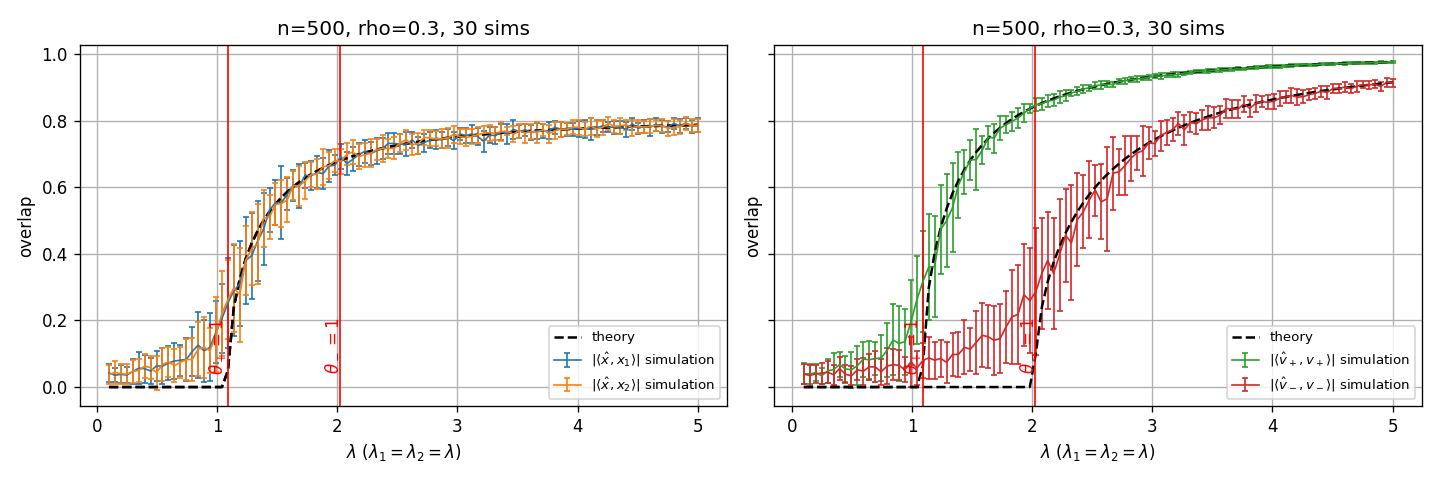
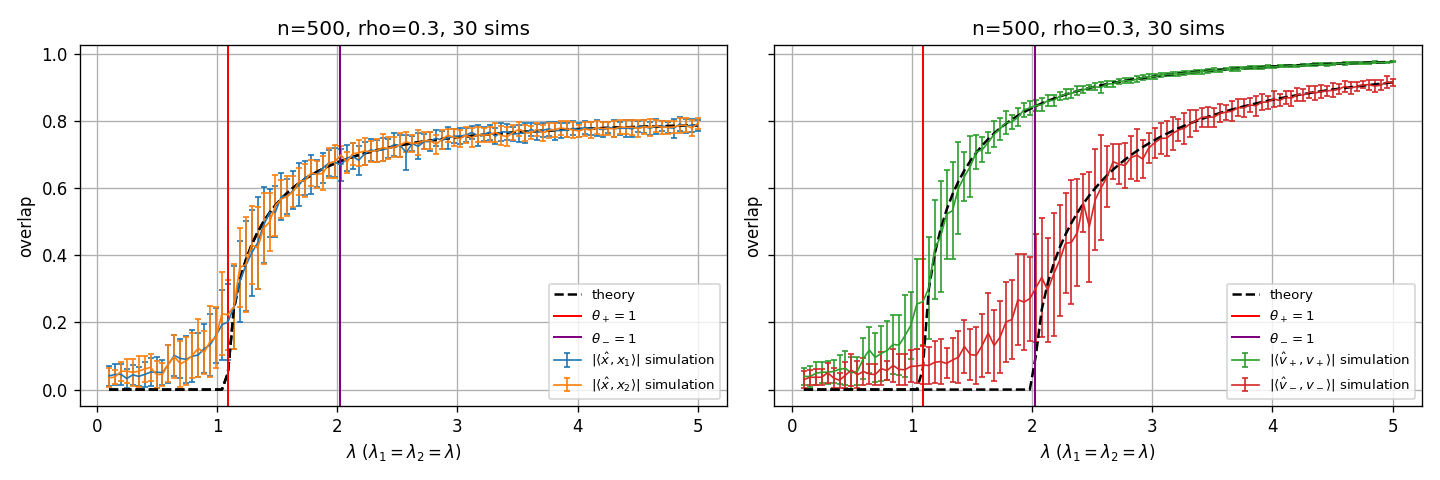
plots

diff --git a/Theory/check_bulk.py b/Theory/check_bulk.py
@@ -119,8 +119,8 @@ def fig_lambda(n=500, rho=0.3, sims=30):
         for k in ks:
             ax.errorbar(lams, mean[:, k], std[:, k], color=f"C{k}", capsize=2, lw=1, label=labels[k] + " simulation")
             ax.plot(lams, th[:, k], "k--", label="theory" if k == ks[0] else None)
-        for tc, name in [(1 / (ALPHA * (1 + rho)), r"$\theta_+=1$"), (1 / (ALPHA * (1 - rho)), r"$\theta_-=1$")]:
-            ax.axvline(tc, color="red", lw=1); ax.text(tc, 0.05, name, color="red", ha="right", rotation=90)
+        ax.axvline(1 / (ALPHA * (1 + rho)), color="red", lw=1.2, label=r"$\theta_+=1$")
+        ax.axvline(1 / (ALPHA * (1 - rho)), color="purple", lw=1.2, label=r"$\theta_-=1$")
         ax.set_xlabel(r"$\lambda$ ($\lambda_1=\lambda_2=\lambda$)"); ax.set_ylabel("overlap")
         ax.set_title(f"n={n}, rho={rho}, {sims} sims"); ax.grid(); ax.legend(fontsize=8, loc="lower right")
     fig.tight_layout(); fig.savefig("overlaps_vs_lambda.png", dpi=120)
@@ -137,8 +137,9 @@ def heat(xname, xs, b_fixed, fname, n=300, reps=4):
     for k, ax in enumerate(axes):
         im = ax.pcolormesh(xs, rhos, Z[:, :, k], cmap="Greys", vmin=0, vmax=1, shading="nearest")
         ax.contour(X, R, tp, levels=[1], colors="red", linewidths=2)
-        ax.set_xlabel(xname); ax.set_ylabel("rho")
-        ax.set_title(rf"$|\langle \hat x, x_{k+1}\rangle|$,  b={b_fixed:.2f}, n={n}  (red: $\theta_+=1$)")
+        ax.plot([], [], color="red", lw=2, label=r"$\theta_+=1$")     # legend entry for the contour
+        ax.set_xlabel(xname); ax.set_ylabel("rho"); ax.legend(loc="upper right")
+        ax.set_title(rf"$|\langle \hat x, x_{k+1}\rangle|$,  b={b_fixed:.2f}, n={n}")
         fig.colorbar(im, ax=ax)
     fig.tight_layout(); fig.savefig(fname, dpi=120)
 
